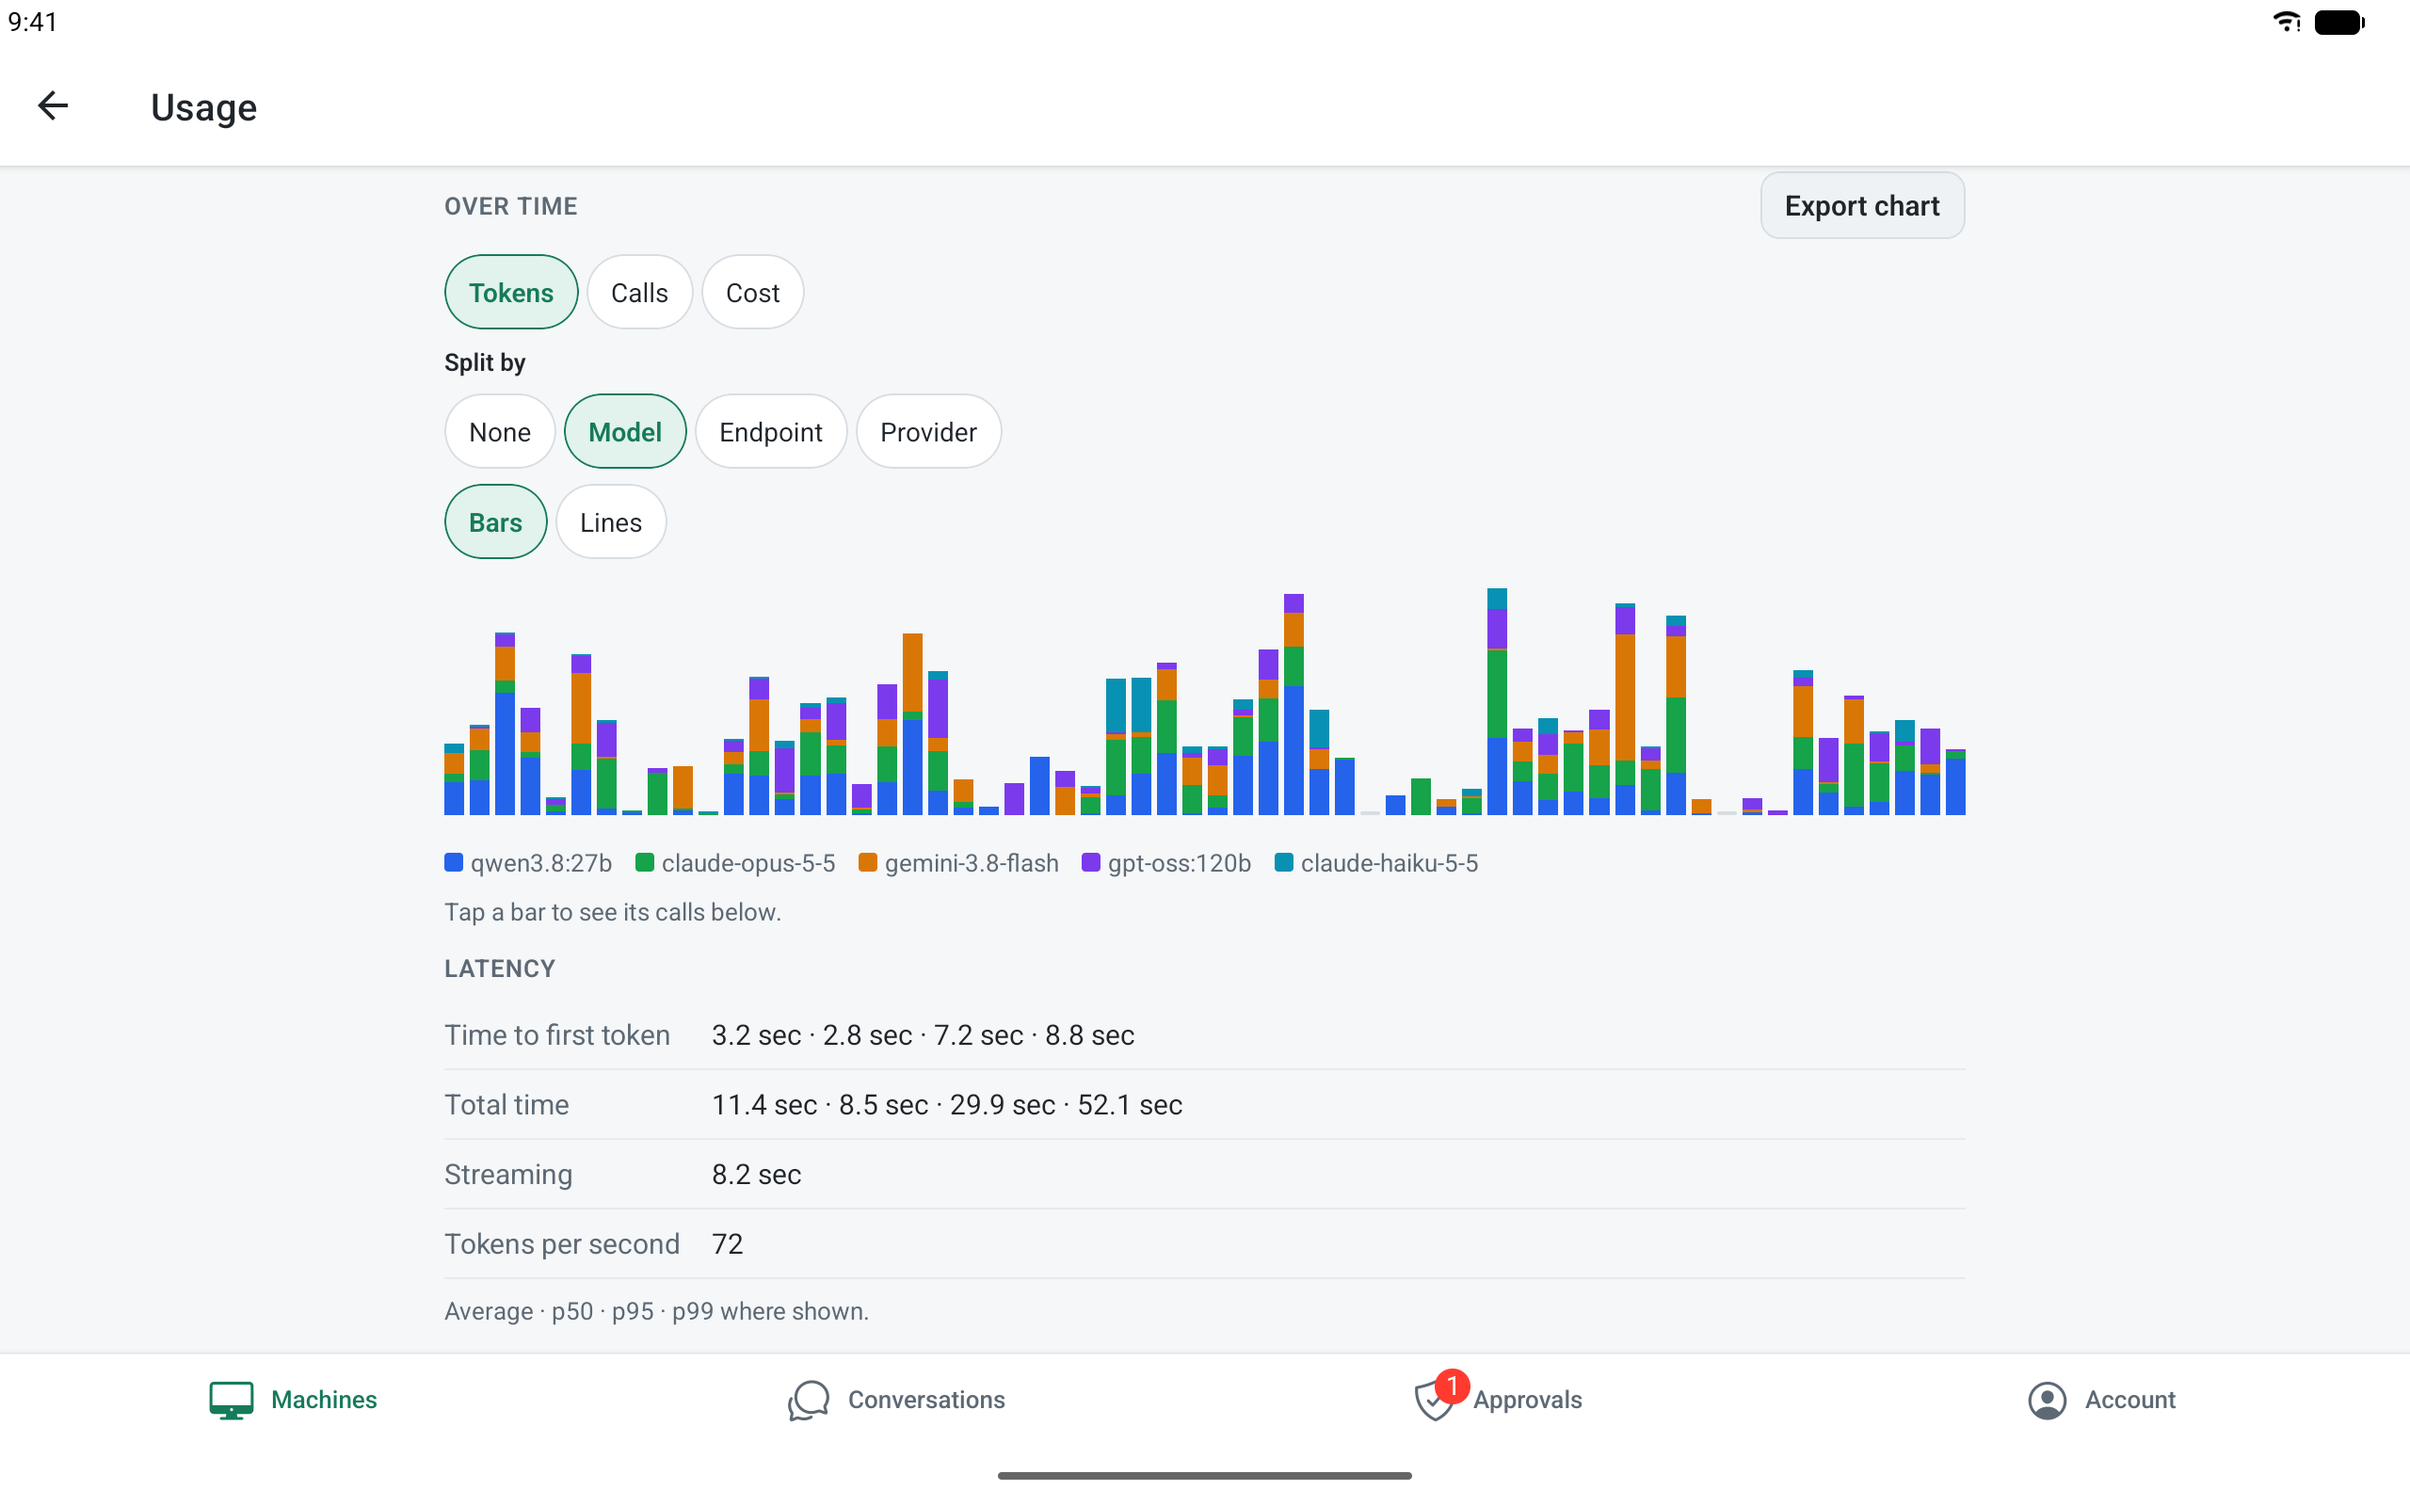
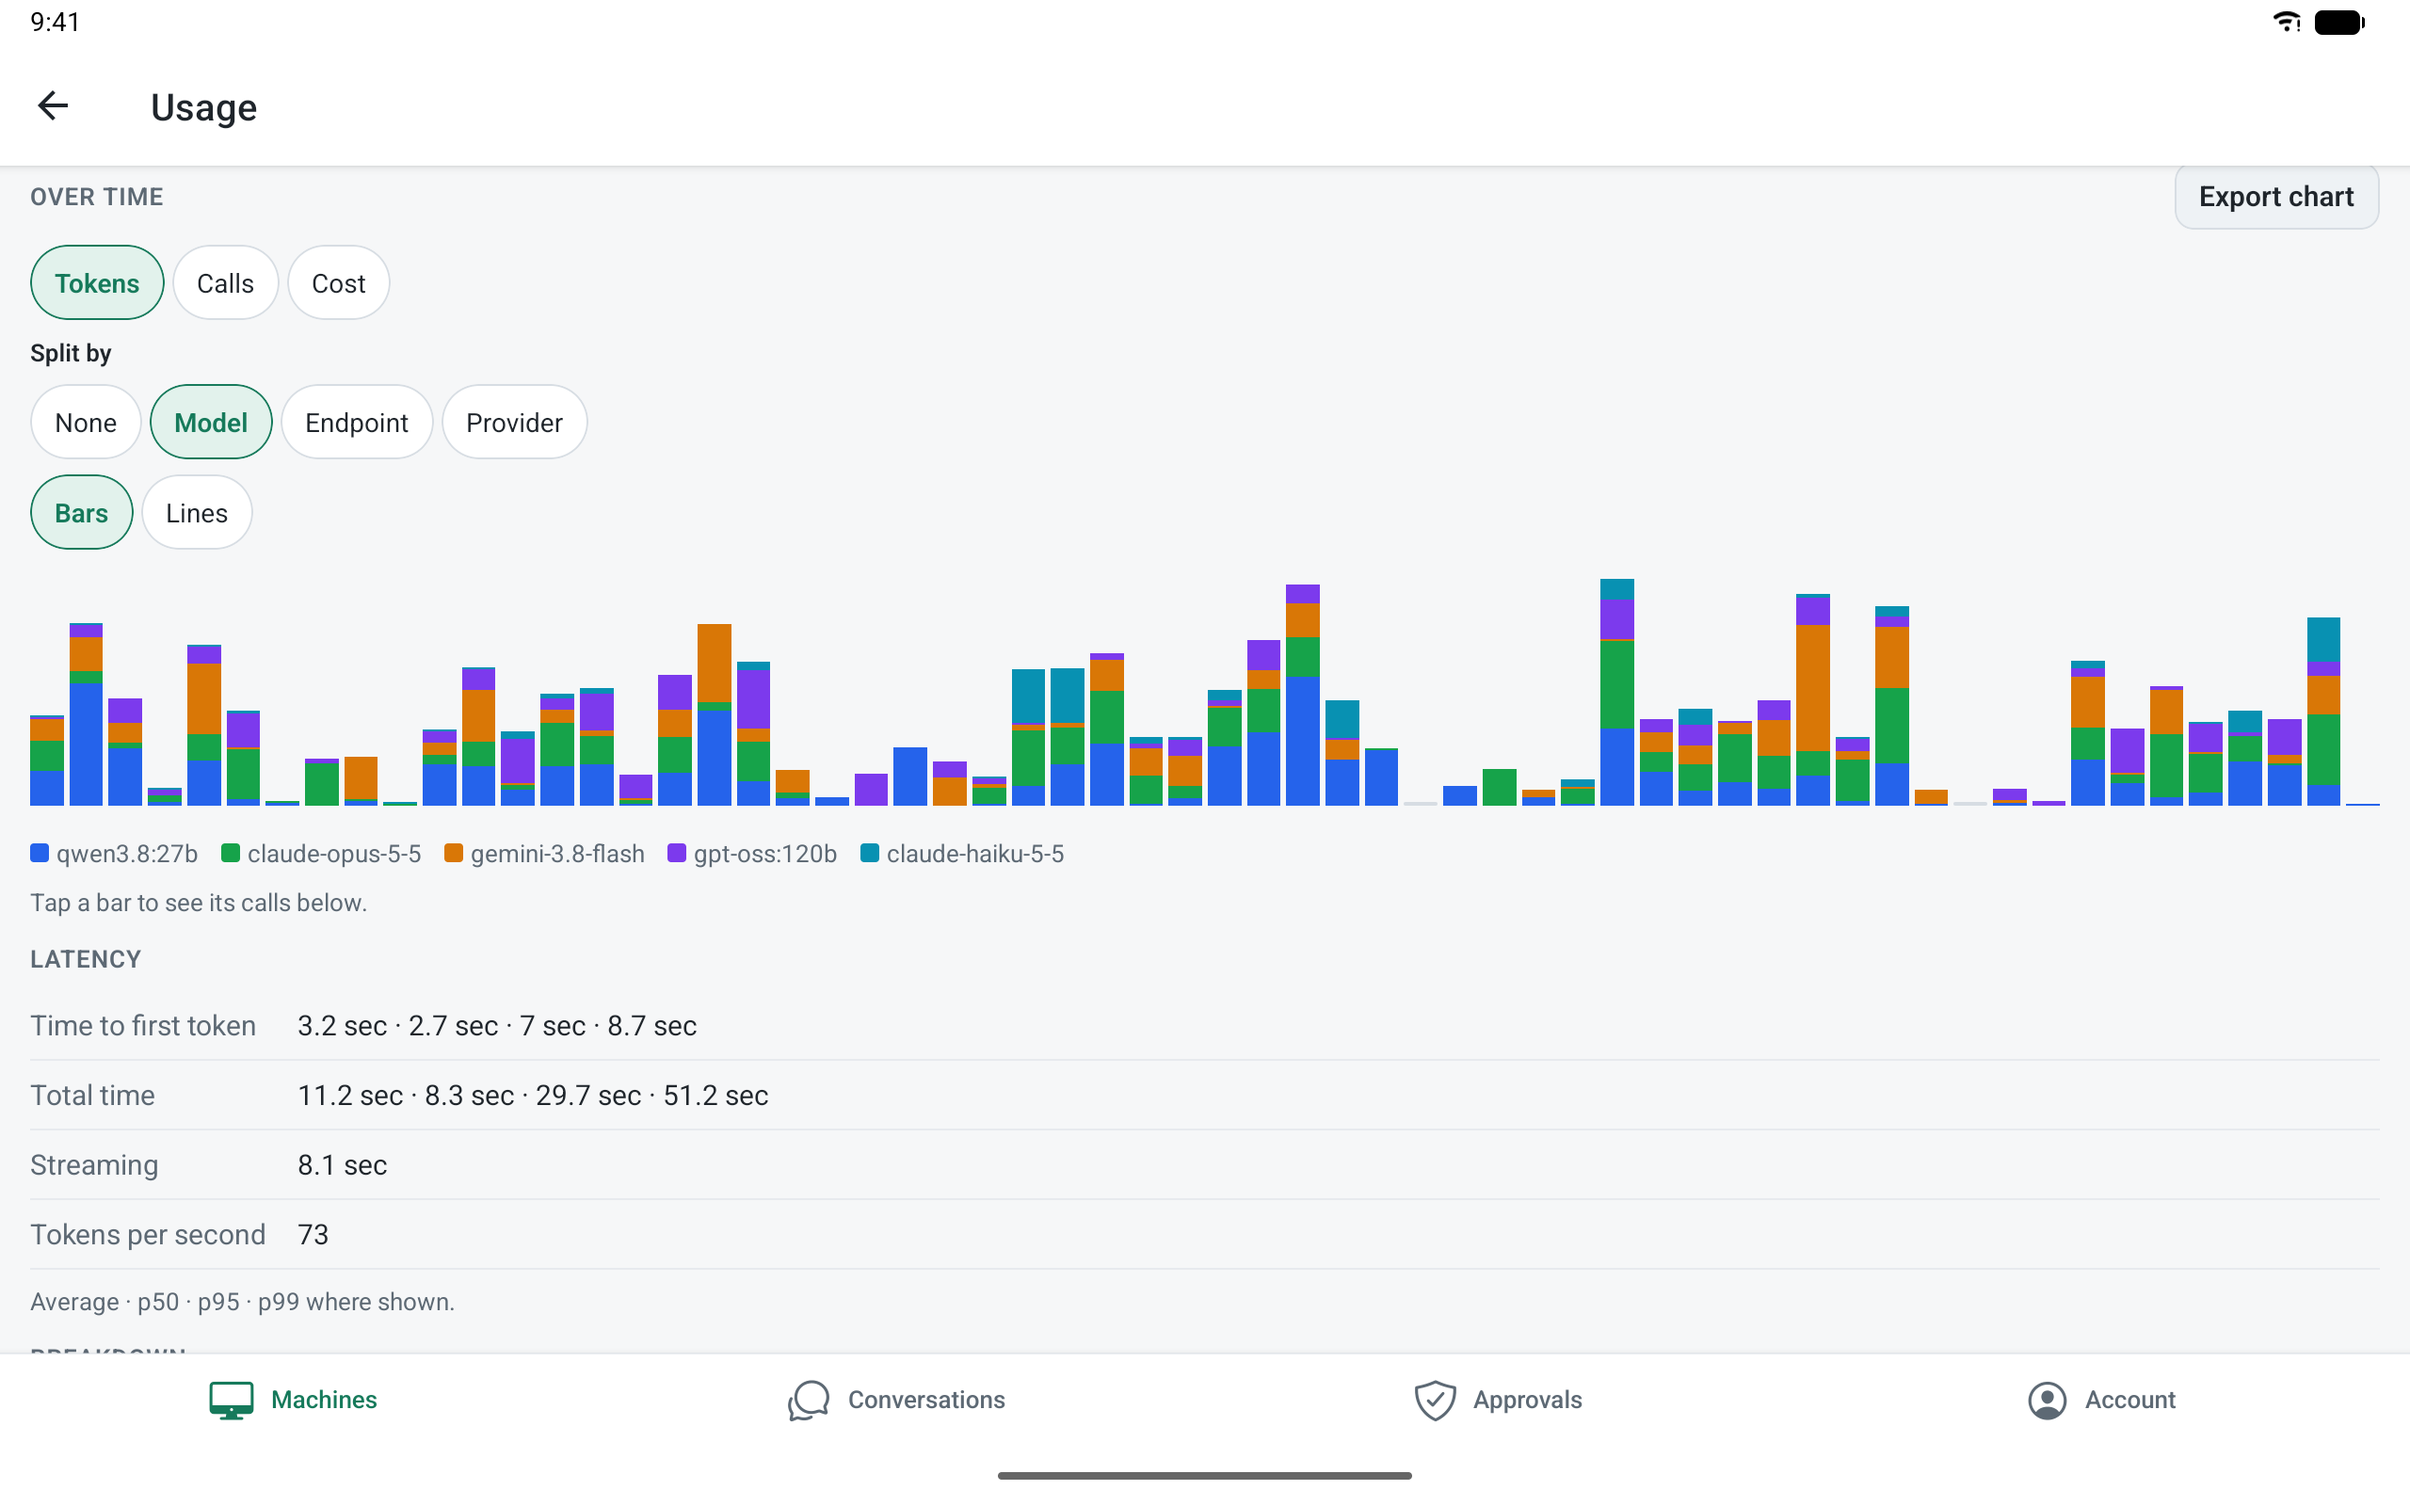
Store screenshots: full-width usage on tablets
iPad 13" and Android tablet usage shots re-shot from 9d5c2f4 release builds: the usage screen now spans the
whole screen width instead of an 840dp column.

diff --git a/src/MuxCloud.Mobile/store/README.md b/src/MuxCloud.Mobile/store/README.md
@@ -10,7 +10,7 @@ synthetic history (about 3,200 model calls across five models and three endpoint
 mux's own format.
 
 All screenshots are 24-bit PNG (no alpha), as App Store Connect and Google Play require. The usage charts span the
-full content width (MuxCloud b777fe1).
+full content width (MuxCloud b777fe1), and on tablets the usage screen uses the whole screen width (MuxCloud 9d5c2f4).
 
 ## App Store: iPhone 6.9" (`ios-6.9/`, 1320 x 2868, iPhone 18 Pro Max simulator)
 
@@ -33,7 +33,7 @@ full content width (MuxCloud b777fe1).
 | `02-machines.png` | Machines list |
 | `03-split-view.png` | Split view: six conversations on the left, the curl conversation with its code blocks on the right |
 | `04-approval.png` | Tool approval card across the full width with the three actions |
-| `05-usage.png` | Usage for the last month: totals, a full-width chart of tokens split by model, latency |
+| `05-usage.png` | Usage for the last month across the full screen width: totals, tokens split by model, latency |
 | `06-dark-split-view.png` | Split view in dark mode on `build-box`: a spending summary table |
 
 ## Google Play: phone (`android-phone/`, 1080 x 2160, Pixel 9 emulator with the display set to 1080 x 2160)
@@ -58,7 +58,7 @@ full content width (MuxCloud b777fe1).
 | `02-machines.png` | Machines list |
 | `03-split-view.png` | Split view with the curl conversation |
 | `04-approval.png` | Tool approval card |
-| `05-usage.png` | Usage for the last month, a full-width chart of tokens split by model, latency percentiles |
+| `05-usage.png` | Usage for the last month across the full screen width: tokens split by model, latency percentiles |
 | `06-dark-split-view.png` | Split view in dark mode on `build-box` |
 
 ## Google Play graphics
